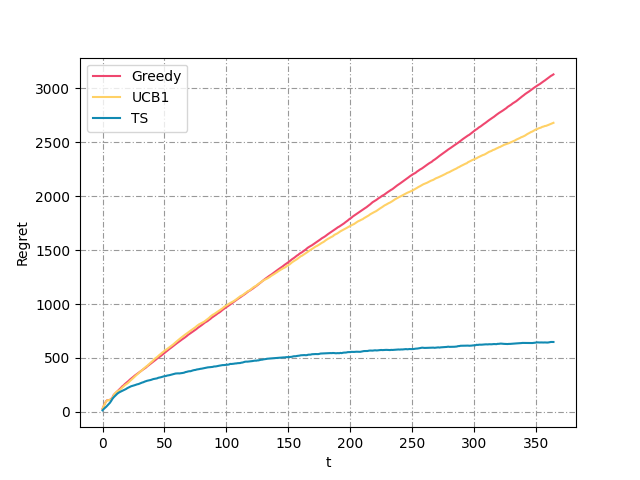
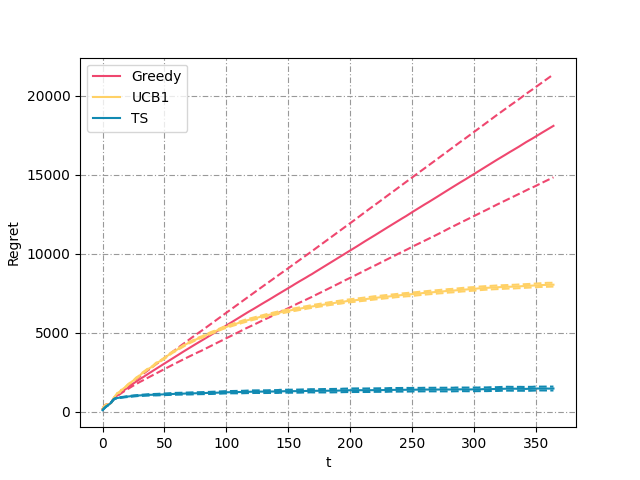
aggiornamento punto 3

diff --git a/experiments/experiment_3.py b/experiments/experiment_3.py
@@ -33,6 +33,10 @@ class Experiment3():
         self.uc_regret_per_experiment = []
         self.ts_regret_per_experiment = []
 
+        self.gr_comulative_regret_per_experiment = []
+        self.uc_comulative_regret_per_experiment = []
+        self.ts_comulative_regret_per_experiment = []
+
         self.opt_per_experiment = []
 
     def run(self):
@@ -56,7 +60,7 @@ class Experiment3():
                 uc_daily_reward = 0
                 ts_daily_reward = 0
 
-                people = pg.generate_people_num(50)
+                people = pg.generate_people_num(500)
                 daily_opt = self.opt * people
 
                 gr_pulled_arm = gr_learner.pull_arm()
@@ -87,7 +91,14 @@ class Experiment3():
 
             self.gr_regret_per_experiment.append(gr_regret)
             self.uc_regret_per_experiment.append(uc_regret)
-            self.ts_regret_per_experiment.append(ts_regret)      
+            self.ts_regret_per_experiment.append(ts_regret)   
+
+            self.gr_comulative_regret_per_experiment.append(np.cumsum(gr_regret))
+            self.uc_comulative_regret_per_experiment.append(np.cumsum(uc_regret))
+            self.ts_comulative_regret_per_experiment.append(np.cumsum(ts_regret)) 
+            #print(self.gr_comulative_regret_per_experiment)   
+            
+
 
     def plot(self):
 
@@ -95,8 +106,14 @@ class Experiment3():
         plt.xlabel("t")
         plt.ylabel("Regret")
         plt.plot(np.cumsum(np.mean(self.gr_regret_per_experiment, axis=0)), self.colors[0], label="Greedy")
+        plt.plot(1.96*np.std(self.gr_comulative_regret_per_experiment, axis=0)/np.sqrt(self.n_experiments) + np.cumsum(np.mean(self.gr_regret_per_experiment, axis=0)), self.colors[0],linestyle='dashed')
+        plt.plot(-1.96*np.std(self.gr_comulative_regret_per_experiment, axis=0)/np.sqrt(self.n_experiments) + np.cumsum(np.mean(self.gr_regret_per_experiment, axis=0)), self.colors[0],linestyle='dashed')
         plt.plot(np.cumsum(np.mean(self.uc_regret_per_experiment, axis=0)), self.colors[1], label="UCB1")
+        plt.plot(1.96*np.std(self.uc_comulative_regret_per_experiment, axis=0)/np.sqrt(self.n_experiments) + np.cumsum(np.mean(self.uc_regret_per_experiment, axis=0)),self.colors[1],linestyle='dashed')
+        plt.plot(-1.96*np.std(self.uc_comulative_regret_per_experiment, axis=0)/np.sqrt(self.n_experiments) + np.cumsum(np.mean(self.uc_regret_per_experiment, axis=0)),self.colors[1],linestyle='dashed')
         plt.plot(np.cumsum(np.mean(self.ts_regret_per_experiment, axis=0)), self.colors[3], label="TS")
+        plt.plot(1.96*np.std(self.ts_comulative_regret_per_experiment, axis=0)/np.sqrt(self.n_experiments) + np.cumsum(np.mean(self.ts_regret_per_experiment, axis=0)),self.colors[3],linestyle='dashed')
+        plt.plot(-1.96*np.std(self.ts_comulative_regret_per_experiment, axis=0)/np.sqrt(self.n_experiments) + np.cumsum(np.mean(self.ts_regret_per_experiment, axis=0)),self.colors[3],linestyle='dashed')
         plt.legend(loc=0)
         plt.grid(True, color='0.6', dashes=(5, 2, 1, 2))
         plt.savefig("img/experiments/experiment_3.png")

diff --git a/learners.py b/learners.py
@@ -67,7 +67,9 @@ class UCB1(Learner):
         if self.t < self.n_arms:
             arm = self.t
         else:
-            confidence = self.alpha*(2*np.log(sum(self.buyer+self.not_buyer))/ (self.buyer+self.not_buyer))**0.5
+            #confidence = self.alpha*(2*np.log(sum(self.buyer+self.not_buyer))/ (self.buyer+self.not_buyer))**0.5
+            #confidence = np.sqrt(2*np.log(self.t)/(self.times_pulled*(self.t-1)))
+            confidence = np.sqrt(2*np.log((self.buyer+self.not_buyer))/(self.times_pulled*(self.buyer+self.not_buyer-1)))
             upper_bound = (self.empirical_means + confidence)*self.prices
             arm = np.random.choice(np.where(upper_bound == upper_bound.max())[0])
         return arm

diff --git a/configmanager.py b/configmanager.py
@@ -83,8 +83,10 @@ class ConfigManager():
         if we want to aggregate just 2 classes [0, 3]
         '''
         aggr_cr = np.zeros(self.n_arms)
+        scale = [.4, .2, .3, .1]
         for c in classes:
-            aggr_cr = np.add(aggr_cr, self.conv_rates[c])
+            conv_rate_scaled = [self.conv_rates[c][i]*scale[c] for i in range(len(self.conv_rates[c]))]
+            aggr_cr = np.add(aggr_cr, conv_rate_scaled)
         
         return np.divide(aggr_cr, len(classes))
     

diff --git a/experiments/experiment_4.py b/experiments/experiment_4.py
@@ -54,7 +54,7 @@ class Experiment4():
                     context_gen.init_context()
                     context_gen.generate() 
 
-                num_people = pg.generate_people_num(n=100)
+                num_people = pg.generate_people_num(n=500)
                 #people = pg.generate_people()
                 daily_reward = 0
                 daily_regret = 0
